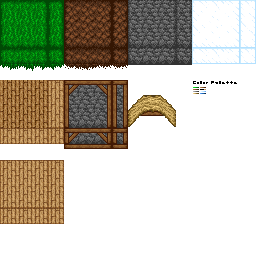
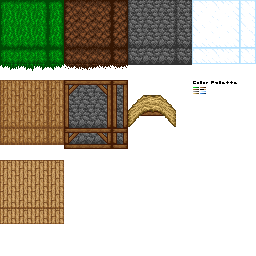
Added wood plank wall; adjustments to wooden stairs

Changed region(s): [[0.0, 0.3125, 0.25, 0.5938]]

diff --git a/src/main/GameMain.java b/src/main/GameMain.java
@@ -580,7 +580,7 @@ public class GameMain {
 		{
 			for (int j = 30; j <= 38; j ++)
 			{
-				t[i][j][0] = new Terrain(dirt, woodFloor);
+				t[i][j][0] = new Terrain(dirt, woodPlank);
 				if (i == 30 || i == 42)
 				{
 					t[i][j][5] = new Terrain(air);
@@ -606,18 +606,10 @@ public class GameMain {
 			}
 		}
 		
-		/*
-		t[31][30][5] = new Terrain(air);
-		t[32][30][5] = new Terrain(air);
-		t[32][30][4] = new Terrain(air);
-		t[33][30][5] = new Terrain(air);
-		t[33][30][4] = new Terrain(air);
-		t[33][30][3] = new Terrain(air);
-		t[34][30][5] = new Terrain(air);
-		t[34][30][4] = new Terrain(air);
-		t[34][30][3] = new Terrain(air);
-		t[34][30][2] = new Terrain(air);
-		*/
+		t[38][37][1] = new Terrain(woodPlank);
+		t[39][37][1] = new Terrain(woodPlank);
+		t[39][37][2] = new Terrain(woodPlank);
+		
 		t[32][30][2] = new Terrain(glass, air);
 		t[33][30][2] = new Terrain(glass, air);
 		t[32][30][3] = new Terrain(glass, air);

diff --git a/src/world/Terrain.java b/src/world/Terrain.java
@@ -5,7 +5,7 @@ import static world.Terrain.terrainType.*;
 public class Terrain {
 	public enum terrainType
 	{
-		grass, dirt, air, rock, thatch, glass, woodFloor
+		grass, dirt, air, rock, thatch, glass, woodPlank
 	}
 	
 	boolean blocking;
@@ -212,6 +212,8 @@ public class Terrain {
 			texRow = 0; texCol = 2; break;
 		case glass:
 			texRow = 0; texCol = 3; break;
+		case woodPlank:
+			texRow = 1; texCol = 0; break;
 			
 		//Unset (blank)
 		default:
@@ -229,7 +231,7 @@ public class Terrain {
 			texRowTop = 0; texColTop = 2; break;
 		case thatch:
 			texRowTop = 0; texColTop = 3; break;
-		case woodFloor:
+		case woodPlank:
 			texRowTop = 1; texColTop = 0; break;
 		
 		//Unset (blank)
